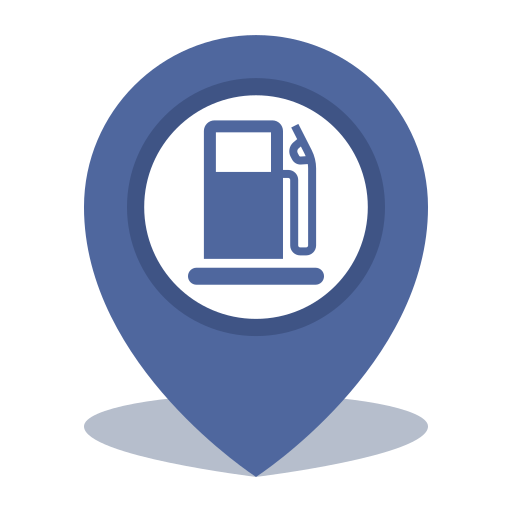
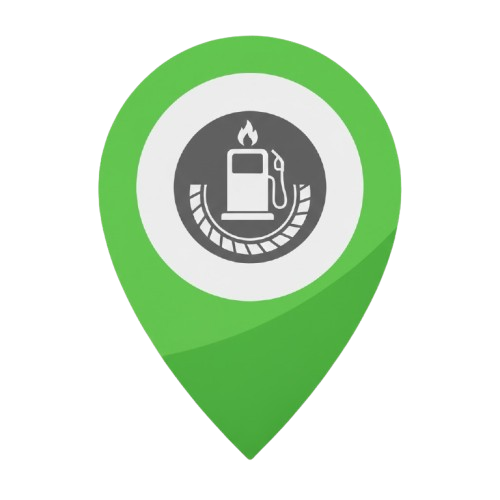
Alterados icones dos estabelecimentos e mudança de borracharia para Auto-peças

diff --git a/src/screens/NearbyPlacesMap/index.js b/src/screens/NearbyPlacesMap/index.js
@@ -22,7 +22,9 @@ export default function NearbyPlacesMap({ route }) {
             const { latitude, longitude } = position.coords;
             setUserLocation({ latitude, longitude });
 
-            const url = `https://maps.googleapis.com/maps/api/place/nearbysearch/json?location=${latitude},${longitude}&radius=4000&type=${tipo}&key=${GOOGLE_API_KEY}`;
+            const keyword = tipo === "tyre_shop" ? "&keyword=tyre_shop" : "";
+
+            const url = `https://maps.googleapis.com/maps/api/place/nearbysearch/json?location=${latitude},${longitude}&radius=4000&type=${tipo === "tyre_shop" ? "car_repair" : tipo}${keyword}&key=${GOOGLE_API_KEY}`;
 
             const { data } = await axios.get(url);
             setLocais(data.results);
@@ -76,6 +78,8 @@ export default function NearbyPlacesMap({ route }) {
                 return require('../../assets/images/gas-station-icon.png')
             case 'car_repair':
                 return require('../../assets/images/car-repair-icon.png')
+            case 'auto_parts_store':
+                return require('../../assets/images/auto-parts-icon.png')
             default:
                 return require('../../assets/images/car-default-icon.png')
         }

diff --git a/src/components/GooglePlaces/index.js b/src/components/GooglePlaces/index.js
@@ -219,10 +219,10 @@ export default function GooglePlaces({userLocation, onConfirm }) {
 
         <TouchableOpacity 
           style={styles.quickActionButton}
-          onPress={() => navigation.navigate('NearbyPlaces', { tipo: 'car_repair' })}
+          onPress={() => navigation.navigate('NearbyPlaces', { tipo: 'auto_parts_store' })}
         >
           <Ionicons name="car-outline" size={28} color="#555" />
-          <Text style={styles.quickActionText}>Borracharia{"\n"}mais próxima</Text>
+          <Text style={styles.quickActionText}>Auto-Peças{"\n"}mais próxima</Text>
         </TouchableOpacity>
 
         <TouchableOpacity 
